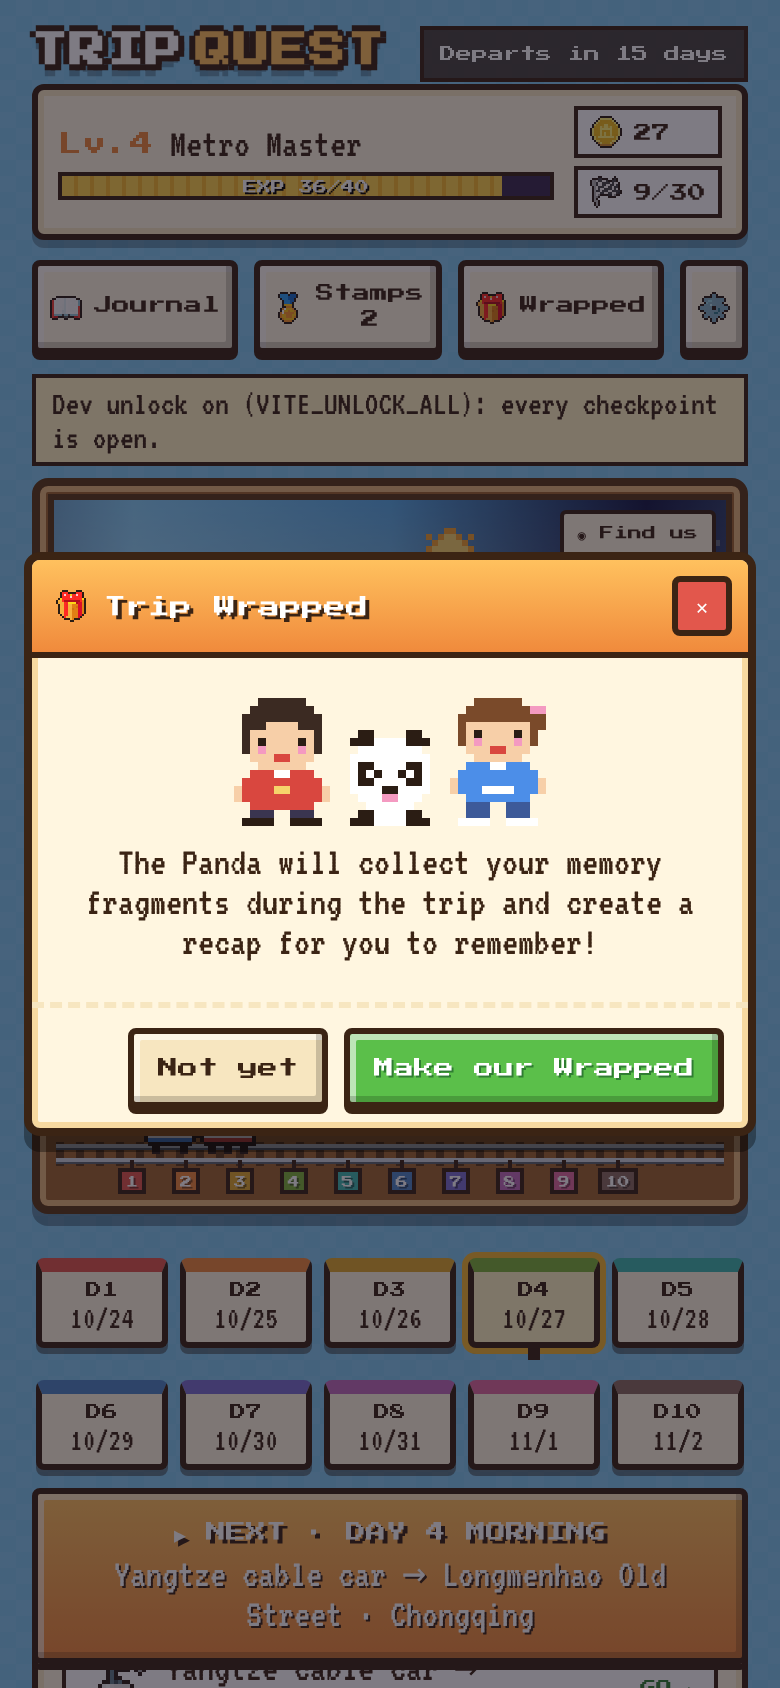
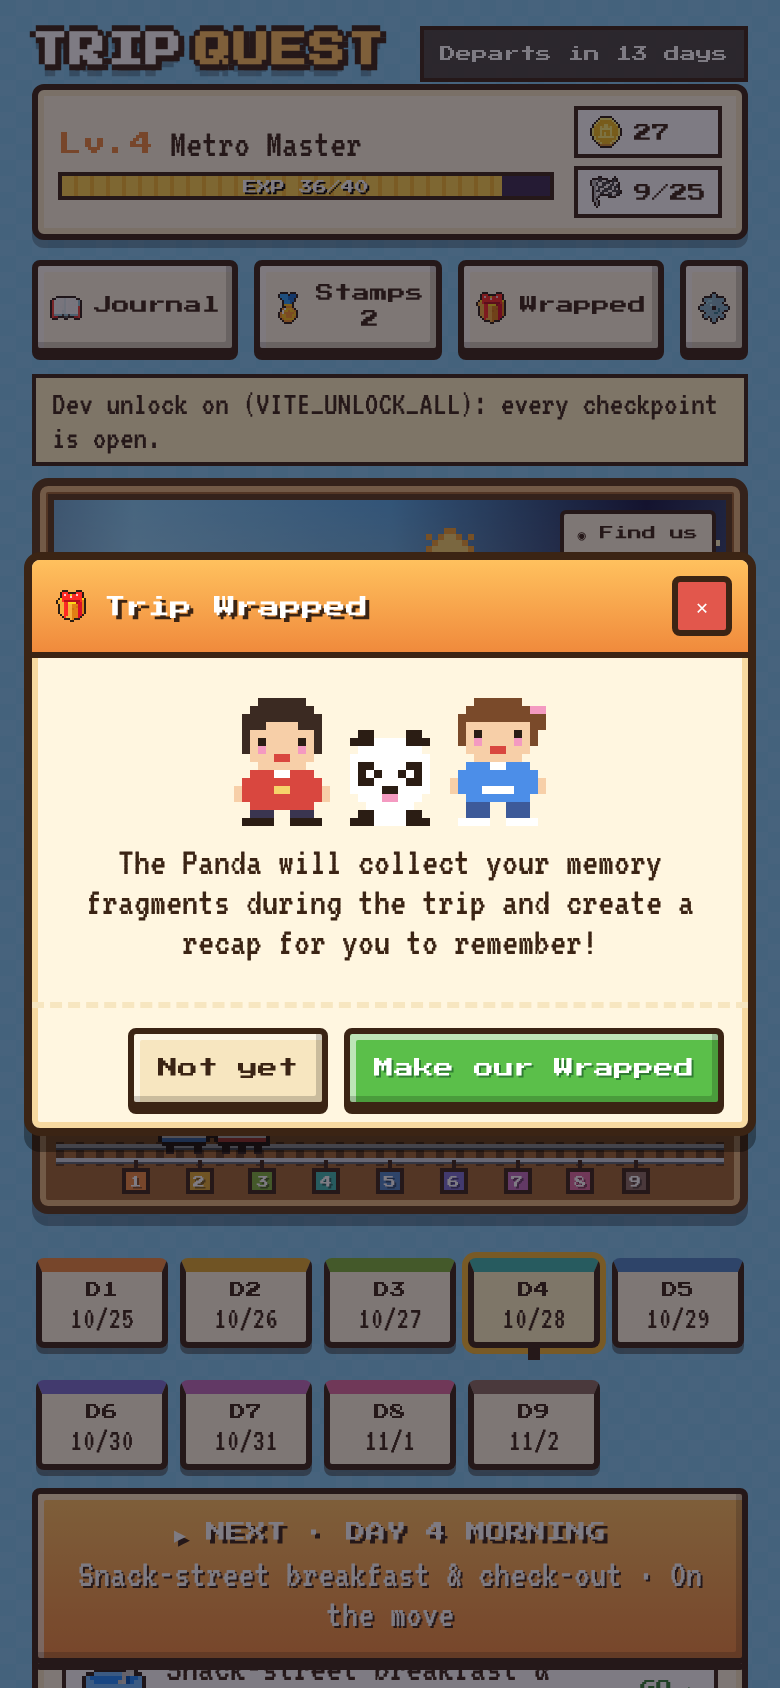
chore: update README screenshot

diff --git a/README.md b/README.md
@@ -3,28 +3,28 @@
 A pixel-art board game that doubles as a travel journal for the Chongqing → Chengdu
 mother-daughter trip.
 
-- **Timeline**: a horizontal side-scrolling world (endless-runner style). START → 30
-checkpoints (10 days × morning / afternoon / night) → GOAL, one signpost per checkpoint
-and a banner at the start of each day. The sky shifts morning → afternoon → night, the
-skyline changes from Chongqing towers to Chengdu bamboo, and the mother-daughter duo
-walks to the next signpost each time you clear one (tap them to jump).
+- **Timeline**: a horizontal side-scrolling world (endless-runner style). START → 25
+  checkpoints (9 days × morning / afternoon / night, minus the last afternoon and night because the flight home is in the morning) → GOAL,
+  one signpost per checkpoint and a banner at the start of each day. The sky shifts morning → afternoon → night, the
+  skyline changes from Chongqing towers to Chengdu bamboo, and the mother-daughter duo
+  walks to the next signpost each time you clear one (tap them to jump).
 - **Locks**: only the next checkpoint can be cleared or skipped; later ones are view-only.
-A day also can't be cleared before its date (China time). Settings → *Test mode* (only shown in builds with
-`VITE_ENABLE_TEST_MODE=true`) turns
-the date lock off so you can try the game before the trip. Only the most recently
-cleared checkpoint can be undone; earlier ones can still be edited.
+  A day also can't be cleared before its date (China time). Settings → *Test mode* (only shown in builds with
+  `VITE_ENABLE_TEST_MODE=true`) turns
+  the date lock off so you can try the game before the trip. Only the most recently
+  cleared checkpoint can be undone; earlier ones can still be edited.
 - **Scrolling**: drag the little train along the track under the world (or tap the track)
-to scroll; numbered posts mark each day. Tap a day button (two rows of five) to centre
-that day in the window.
+  to scroll; numbered posts mark each day. Tap a day button (two rows of five) to centre
+  that day in the window.
 - **Decisions**: each checkpoint offers the planned activity, optional alternatives
-(e.g. Ciqikou, Dujiangyan, Sanxingdui, Wuhou Shrine), "Rest at the hotel", or
-"Did something else", with directions and travel time. All text is English except
-place names and food names, which are in Chinese (handy to show a taxi driver or point
-at on a menu). Food names have a short English hint in brackets.
+  (e.g. Ciqikou, Dujiangyan, Sanxingdui, Wuhou Shrine), "Rest at the hotel", or
+  "Did something else", with directions and travel time. All text is English except
+  place names and food names, which are in Chinese (handy to show a taxi driver or point
+  at on a menu). Food names have a short English hint in brackets.
 - **Journal**: mood hearts, notes, up to 3 photos per checkpoint (a swipeable strip), who wrote it. Browse it all in
-the Journal book; export/import a JSON backup.
+  the Journal book; export/import a JSON backup.
 - **Game bits**: roll a die once per checkpoint for coins and a chance card (lucky break,
-oops, or side quest), earn EXP and level up, and collect 12 stamps.
+  oops, or side quest), earn EXP and level up, and collect 12 stamps.
 - **Two save modes**:
   - *This device only* (default) — saved in the browser's localStorage. Needs no setup.
   - *Synced trip* — both phones share one journal through Supabase, with live updates.
@@ -42,48 +42,56 @@ photos and canned Panda answers, so they show the layout, not real trip content.
 
 ### The journey map
 
-![Side-scrolling journey map](docs/screenshots/journey-map.png)
+<img src="docs/screenshots/journey-map.png" width="260" alt="Side-scrolling journey map" />
 
-A side-scrolling pixel world from START to GOAL: 30 checkpoints (10 days × morning / afternoon / night).
+A side-scrolling pixel world from START to GOAL: 25 checkpoints (9 days; the last day has only a morning).
 The sky and skyline change as you go, the mother-daughter duo walks to the next signpost each time you clear
 one, and the HUD shows level, coins, stamps, the Journal and Trip Wrapped buttons.
 
 ### Checkpoints: plan, journal and Panda Wishes
 
-![A checkpoint with the plan options](docs/screenshots/checkpoint.png)![Panda Wishes while it looks things up](docs/screenshots/panda-wishes-loading.png)![A Panda Wishes answer with sources](docs/screenshots/panda-wishes-answer.png)
+<img src="docs/screenshots/checkpoint.png" width="260" alt="A checkpoint with the plan options" />
+<img src="docs/screenshots/panda-wishes-loading.png" width="260" alt="Panda Wishes while it looks things up" />
+<img src="docs/screenshots/panda-wishes-answer.png" width="260" alt="A Panda Wishes answer with sources" />
 
 - Each checkpoint shows the planned activity, alternatives, "Rest at the hotel" and "Did something else", with
-directions and travel time. Chinese place and food names are kept in Chinese (handy for taxi drivers and menus).
+  directions and travel time. Chinese place and food names are kept in Chinese (handy for taxi drivers and menus).
 - **Panda Wishes** (optional, needs the `ask-guide` Supabase function): ask the Panda for a food or place tip. You
-get a limited number of wishes per day, shown as bamboo shoots. While it searches, the Panda animates and a
-loading box shows; answers come with source links and an "Add to notes" button.
-It only appears on checkpoints that are still open.
-- Journal: mood hearts, notes and up to 3 photos per checkpoint.
-
-
+  get a limited number of wishes per day, shown as bamboo shoots. While it searches, the Panda animates and a
+  loading box shows; answers come with source links and an "Add to notes" button.
+  It only appears on checkpoints that are still open.
+- Journal: mood hearts, notes (up to 10,000 characters) and up to 3 photos per checkpoint. A stop can only be cleared once you have rated it with
+  at least one heart (a "Please rate the session" nudge shows under the hearts); Skip needs no rating.
 
 ### Cleared and skipped checkpoints
 
-![A cleared checkpoint, plan choice fixed](docs/screenshots/cleared-checkpoint.png)![A skipped checkpoint](docs/screenshots/skipped-checkpoint.png)
+<img src="docs/screenshots/cleared-checkpoint.png" width="260" alt="A cleared checkpoint, plan choice fixed" />
+<img src="docs/screenshots/skipped-checkpoint.png" width="260" alt="A skipped checkpoint" />
 
 Once a checkpoint is cleared or skipped, the plan you picked is fixed. You can still edit the notes, hearts and
 photos until the recap is made. Only the most recently cleared checkpoint can be undone.
 
 ### Trip Wrapped
 
-![Trip Wrapped maker](docs/screenshots/wrapped-maker.png)![Confirm step](docs/screenshots/wrapped-confirm.png)
+<img src="docs/screenshots/wrapped-maker.png" width="260" alt="Trip Wrapped maker" />
+<img src="docs/screenshots/wrapped-confirm.png" width="260" alt="Confirm step" />
 
 After the trip (or in Test mode) the Wrapped button lets you make a Spotify-Wrapped-style recap. Gemini reads the
 notes and photos, and the recap is saved once, so it is the same on both phones.
 
-![Intro](docs/screenshots/wrapped-slide-1.png)![Numbers](docs/screenshots/wrapped-slide-2.png)![Best shots](docs/screenshots/wrapped-slide-3.png)![Top 5 moments](docs/screenshots/wrapped-slide-4.png)![Travel personality](docs/screenshots/wrapped-slide-5.png)![Closing note with PDF download](docs/screenshots/wrapped-slide-6.png)
+<img src="docs/screenshots/wrapped-slide-1.png" width="200" alt="Intro" />
+<img src="docs/screenshots/wrapped-slide-2.png" width="200" alt="Numbers" />
+<img src="docs/screenshots/wrapped-slide-3.png" width="200" alt="Best shots" />
+<img src="docs/screenshots/wrapped-slide-4.png" width="200" alt="Top 5 moments" />
+<img src="docs/screenshots/wrapped-slide-5.png" width="200" alt="Travel personality" />
+<img src="docs/screenshots/wrapped-slide-6.png" width="200" alt="Closing note with PDF download" />
 
 Six slides: intro, trip in numbers, best shots (photo montage), top 5 moments, travel personality, and a closing
 note from the Panda with a **Download PDF** button. Tap right/left to move, hold to pause.
 
 ### After the recap is made
 
-![Read-only journal](docs/screenshots/journal-read-only.png)
+<img src="docs/screenshots/journal-read-only.png" width="260" alt="Read-only journal" />
 
 The journal becomes read-only (enforced in the database, not just the app), so the recap always matches what was
 written.
@@ -95,8 +103,6 @@ written.
 - Roll a die once per checkpoint for coins and chance cards, earn EXP, collect 12 stamps.
 - Retro sound effects (toggle in Settings).
 - *Test mode: ignore dates* is only shown in builds with `VITE_ENABLE_TEST_MODE=true`.
-
-
 
 ## Run locally
 
@@ -141,16 +147,12 @@ supabase/schema.sql   ← tables, RLS policies, RPCs, photo bucket
 supabase/functions/   ← ask-guide (Panda Wishes) and trip-recap (Trip Wrapped) Edge Functions
 ```
 
-
-
 ## Deploy to Vercel (local mode)
 
 1. Push this folder to a GitHub repo.
 2. On vercel.com → **Add New… → Project** → import the repo.
-  Vercel detects Vite automatically (build `npm run build`, output `dist`).
+   Vercel detects Vite automatically (build `npm run build`, output `dist`).
 3. Deploy. That's it — each phone keeps its own journal.
-
-
 
 ## Add Supabase sync (optional, free tier is plenty)
 
@@ -158,31 +160,30 @@ supabase/functions/   ← ask-guide (Panda Wishes) and trip-recap (Trip Wrapped)
 2. **SQL Editor → New query** → paste `supabase/schema.sql` → **Run**.
 3. **Authentication → Sign In / Providers** → turn on **Allow anonymous sign-ins**.
 4. **Project Settings → API Keys** (or the **Connect** button at the top): copy the *Project URL* and the
-  *publishable key* (`sb_publishable_…`). Never use the `sb_secret_…` key in this app.
+   *publishable key* (`sb_publishable_…`). Never use the `sb_secret_…` key in this app.
 5. In Vercel → Project → **Settings → Environment Variables**, add:
-  - `VITE_SUPABASE_URL` = Project URL
-  - `VITE_SUPABASE_PUBLISHABLE_KEY` = publishable key (the older `VITE_SUPABASE_ANON_KEY` name also works)
+   - `VITE_SUPABASE_URL` = Project URL
+   - `VITE_SUPABASE_PUBLISHABLE_KEY` = publishable key (the older `VITE_SUPABASE_ANON_KEY` name also works)
+
    Then redeploy (Vite reads these at build time). For local dev, put the same two lines in
    `.env.local` (see `.env.example`).
 6. Optional: set `VITE_REQUIRE_TRIP=true` (in `.env.local` and Vercel) to make the cloud trip mandatory. The game then
-  shows a "Create a trip / Join with a code" screen first and never falls back to saving in the browser. If the
+   shows a "Create a trip / Join with a code" screen first and never falls back to saving in the browser. If the
    Supabase keys are missing it says so instead of silently playing offline. "Leave trip" returns to that screen.
 7. In the app: **⚙ Settings → Start a shared trip** on one phone (tick "Copy this phone's
-  journal" to keep what you've written). It shows a 6-letter code. On the other phone:
+   journal" to keep what you've written). It shows a 6-letter code. On the other phone:
    **Settings → Join with a code**.
-
-
 
 ### How the security works
 
 - The publishable (anon) key is designed to be public; data is protected by Row Level Security.
 - Each phone signs in anonymously (no email or password). Only members of a trip
-(whoever created it or joined with its code) can read or write its entries and photos.
+  (whoever created it or joined with its code) can read or write its entries and photos.
 - Anyone who has the code can join, so treat the code like a private link.
 - Anonymous sessions live in the browser. If a phone clears its site data, re-join
-with the code; the journal itself stays in Supabase.
+  with the code; the journal itself stays in Supabase.
 - Photos go to a private bucket (`journal-photos/<trip>/<checkpoint>/…`). They're
-downscaled to 1280 px before upload and shown via signed URLs that expire after 1 hour.
+  downscaled to 1280 px before upload and shown via signed URLs that expire after 1 hour.
 
 The schema was tested against Postgres (PGlite) with Supabase-style stubs: members can
 read and write, non-members get nothing, the join code works, and photo-folder access is
@@ -200,23 +201,25 @@ and can take up to a minute per question.
 
 ### Set it up (once)
 
-1. **Get a Gemini API key.** Open [https://aistudio.google.com/apikey](https://aistudio.google.com/apikey), sign in with a Google account and click
-  "Create API key". A Gemini app subscription is not needed (it does not include API access); the free tier is
+1. **Get a Gemini API key.** Open https://aistudio.google.com/apikey, sign in with a Google account and click
+   "Create API key". A Gemini app subscription is not needed (it does not include API access); the free tier is
    enough to start. Copy the key. Never paste it into the repo, `.env.local`, Vercel, chat or a screenshot.
 2. **Run the wishes SQL.** In the Supabase dashboard open SQL Editor and run `supabase/schema.sql` (the "AI guide
-  quota" part is what is new, including the star counter and refund functions; the file is safe to re-run). This step is manual because this repo keeps the schema
+   quota" part is what is new, including the star counter and refund functions; the file is safe to re-run). This step is manual because this repo keeps the schema
    in one pasted file, not in `supabase/migrations/`. See "Auto-deploying from GitHub" below to change that.
-3. **Install the Supabase CLI** ([https://supabase.com/docs/guides/cli](https://supabase.com/docs/guides/cli)), then run these from the repo folder:
-  ```bash
+3. **Install the Supabase CLI** (https://supabase.com/docs/guides/cli), then run these from the repo folder:
+
+   ```bash
    supabase login
    supabase link --project-ref <your-project-ref>      # the part before .supabase.co in your project URL
    supabase secrets set GEMINI_API_KEY=<paste-your-key-here>
    supabase functions deploy ask-guide
-  ```
+   ```
+
    `supabase secrets set` stores the key inside Supabase, where only the function can read it.
 4. **Turn the box on.** Set `VITE_ENABLE_GUIDE=true` in `.env.local` (and in Vercel, then redeploy).
 5. **Check it.** Open a checkpoint in a synced trip and ask a question. If it fails, run
-  `supabase functions logs ask-guide` (or open Edge Functions → ask-guide → Logs in the dashboard).
+   `supabase functions logs ask-guide` (or open Edge Functions → ask-guide → Logs in the dashboard).
 
 To replace a leaked or old key later, run `supabase secrets set GEMINI_API_KEY=<new-key>` again. No redeploy needed.
 
@@ -229,22 +232,20 @@ Optional secrets, set the same way: `GUIDE_DAILY_LIMIT` (wishes per trip per day
 - Only the plan text and the question are sent to Gemini. Journal notes and photos are never sent.
 - On Google's free tier, prompts may be used to improve Google products. Paid tier does not.
 - Without search, Gemini can invent places or get details wrong. The prompt tells it to stay with well-known places
-and never give hours or prices, and the box reminds players to check Dianping or Amap.
-- `GUIDE_GROUNDING=agent` **(default):** Google's Antigravity agent preview with only Google Search allowed (no code
-execution or page fetching). On the free tier AI Studio shows 100 requests/day and 60/minute for it, plus a separate
-Search allowance. It is slower than a plain model call, and Google has not documented where its source links appear,
-so source links may be missing. If Google refuses the call, the function retries without any tool and the box says
-the answer was not checked. Check the AI Studio rate-limit page for your own numbers.
-- `GUIDE_GROUNDING=search`**:** Google Search on a normal Gemini model. Google gives Search no free allowance on its newer
-models, so it returns a 429 unless billing is enabled on the key's Google Cloud project.
-- `GUIDE_GROUNDING=none`**:** answers come from the model's memory only and can invent places or details. The prompt
-tells it to stay with well-known places and never give hours or prices.
+  and never give hours or prices, and the box reminds players to check Dianping or Amap.
+- **`GUIDE_GROUNDING=agent` (default):** Google's Antigravity agent preview with only Google Search allowed (no code
+  execution or page fetching). On the free tier AI Studio shows 100 requests/day and 60/minute for it, plus a separate
+  Search allowance. It is slower than a plain model call, and Google has not documented where its source links appear,
+  so source links may be missing. If Google refuses the call, the function retries without any tool and the box says
+  the answer was not checked. Check the AI Studio rate-limit page for your own numbers.
+- **`GUIDE_GROUNDING=search`:** Google Search on a normal Gemini model. Google gives Search no free allowance on its newer
+  models, so it returns a 429 unless billing is enabled on the key's Google Cloud project.
+- **`GUIDE_GROUNDING=none`:** answers come from the model's memory only and can invent places or details. The prompt
+  tells it to stay with well-known places and never give hours or prices.
 - Always check opening hours and the location on Dianping or Amap before you go.
-- Free-tier limits differ per model and can change. Check your own at [https://aistudio.google.com/rate-limit](https://aistudio.google.com/rate-limit).
+- Free-tier limits differ per model and can change. Check your own at https://aistudio.google.com/rate-limit.
 - Run the function locally: copy `supabase/functions/.env.example` to `supabase/functions/.env`, then
-`supabase functions serve ask-guide --env-file supabase/functions/.env`.
-
-
+  `supabase functions serve ask-guide --env-file supabase/functions/.env`.
 
 ### Auto-deploying from GitHub (optional)
 
@@ -253,9 +254,9 @@ SQL files in `supabase/migrations/` (one timestamped file per change) and functi
 `supabase/config.toml`. Two ways to set it up:
 
 - **Supabase's GitHub integration** (Dashboard → Project Settings → Integrations → GitHub): turn on
-"Deploy to production" and pushes to your main branch apply new migrations and deploy functions.
+  "Deploy to production" and pushes to your main branch apply new migrations and deploy functions.
 - **A GitHub Action** that runs `supabase link`, `supabase db push` and `supabase functions deploy`. It needs
-the GitHub secrets `SUPABASE_ACCESS_TOKEN`, `SUPABASE_DB_PASSWORD` and your project id.
+  the GitHub secrets `SUPABASE_ACCESS_TOKEN`, `SUPABASE_DB_PASSWORD` and your project id.
 
 Secrets such as `GEMINI_API_KEY` are never deployed from the repo, so step 3's `supabase secrets set` stays a
 one-time manual step either way.
@@ -265,20 +266,20 @@ one-time manual step either way.
 A Spotify-Wrapped-style recap: 6 story slides you tap through, and a **Download PDF** button on the last one.
 
 1. Intro · 2. Your trip in numbers · 3. Your best shots (5 photos) · 4. Your top 5 moments ·
-2. Your travel personality · 6. A closing note from the Panda + Download PDF
+5. Your travel personality · 6. A closing note from the Panda + Download PDF
 
-**How it's made.** The 🎁 Wrapped button appears in the top bar after the last checkpoint, after 2 Nov
-(China time), or any time in Test mode. Tapping "Make our Wrapped":
+**How it's made.** The 🎁 Wrapped button appears in the top bar after the last checkpoint, after the trip
+ends (China time), or any time in Test mode. Tapping "Make our Wrapped":
 
 1. The `trip-recap` Edge Function sends each cleared checkpoint's note, hearts and photos (up to 3) to Gemini,
-  which returns the note's mood (−1 to 1), up to 3 feelings, a short quote copied from the note (checked to be
+   which returns the note's mood (−1 to 1), up to 3 feelings, a short quote copied from the note (checked to be
    really in it), a caption and a score for each photo (happy faces, wow, sharpness). Each result is saved in
    `recap_moments` and never asked for again.
 2. The game ranks the moments: 40% your hearts, 25% the note's mood, 25% the best photo, 10% effort (photos
-  and words added). The montage takes the 5 best photos that aren't already in the top 5.
+   and words added). The montage takes the 5 best photos that aren't already in the top 5.
 3. Gemini writes the personality title, its description and the closing note from those facts.
 4. The finished recap is saved once in `recaps`. **From then on the journal is read-only for both phones**
-  (the database refuses entry and photo changes). Both phones always see the same recap.
+   (the database refuses entry and photo changes). Both phones always see the same recap.
 
 **Set it up:** it uses the same `GEMINI_API_KEY` secret and `VITE_ENABLE_GUIDE=true` switch as Panda Wishes. Then:
 
@@ -293,29 +294,24 @@ Optional secret: `RECAP_MODEL` to use a different Gemini model for the recap (de
 **Things to know**
 
 - Notes and photos of the cleared checkpoints are sent to Google. On a paid (billing-enabled) Gemini key, Google
-doesn't use them to improve its products; on the free tier it may.
+  doesn't use them to improve its products; on the free tier it may.
 - Cost is small: about 30 calls with up to 90 resized photos, roughly US$0.10 or less on Gemini Flash-Lite's paid
-price. That is an estimate, not a measured run.
+  price. That is an estimate, not a measured run.
 - In Test mode (or with `VITE_UNLOCK_ALL`), the last slide also shows "Delete this recap (test)", which removes the
-recap and its saved analysis and unlocks the journal again, so a test run before the trip doesn't block the real one.
+  recap and its saved analysis and unlocks the journal again, so a test run before the trip doesn't block the real one.
 - The PDF is made on the phone (nothing is uploaded): 6 portrait pages, about 1 MB with photos.
-
-
 
 ## Known limits
 
 - In local mode, photos are stored as small (640 px) JPEGs in localStorage. Browsers allow
-roughly 5 MB per site, so about 50–100 photos fit (up to 3 per checkpoint, 90 in a full trip). Use cloud sync for more.
+  roughly 5 MB per site, so about 50–100 photos fit (up to 3 per checkpoint, 90 in a full trip). Use cloud sync for more.
 - Fonts load from Google Fonts (Press Start 2P, VT323). Offline, the app falls back to
-system fonts.
+  system fonts.
 - Realtime sync covers new and edited entries. If one phone *undoes* a checkpoint, the
-other phone sees it on the next reload, because Supabase filtered realtime channels don't
-deliver deletes.
+  other phone sees it on the next reload, because Supabase filtered realtime channels don't
+  deliver deletes.
 - "Today" is calculated in China time (Asia/Shanghai).
-
-
 
 ## Ideas for later
 
 - Add a PWA manifest so it can be installed to the home screen and work offline.
-
